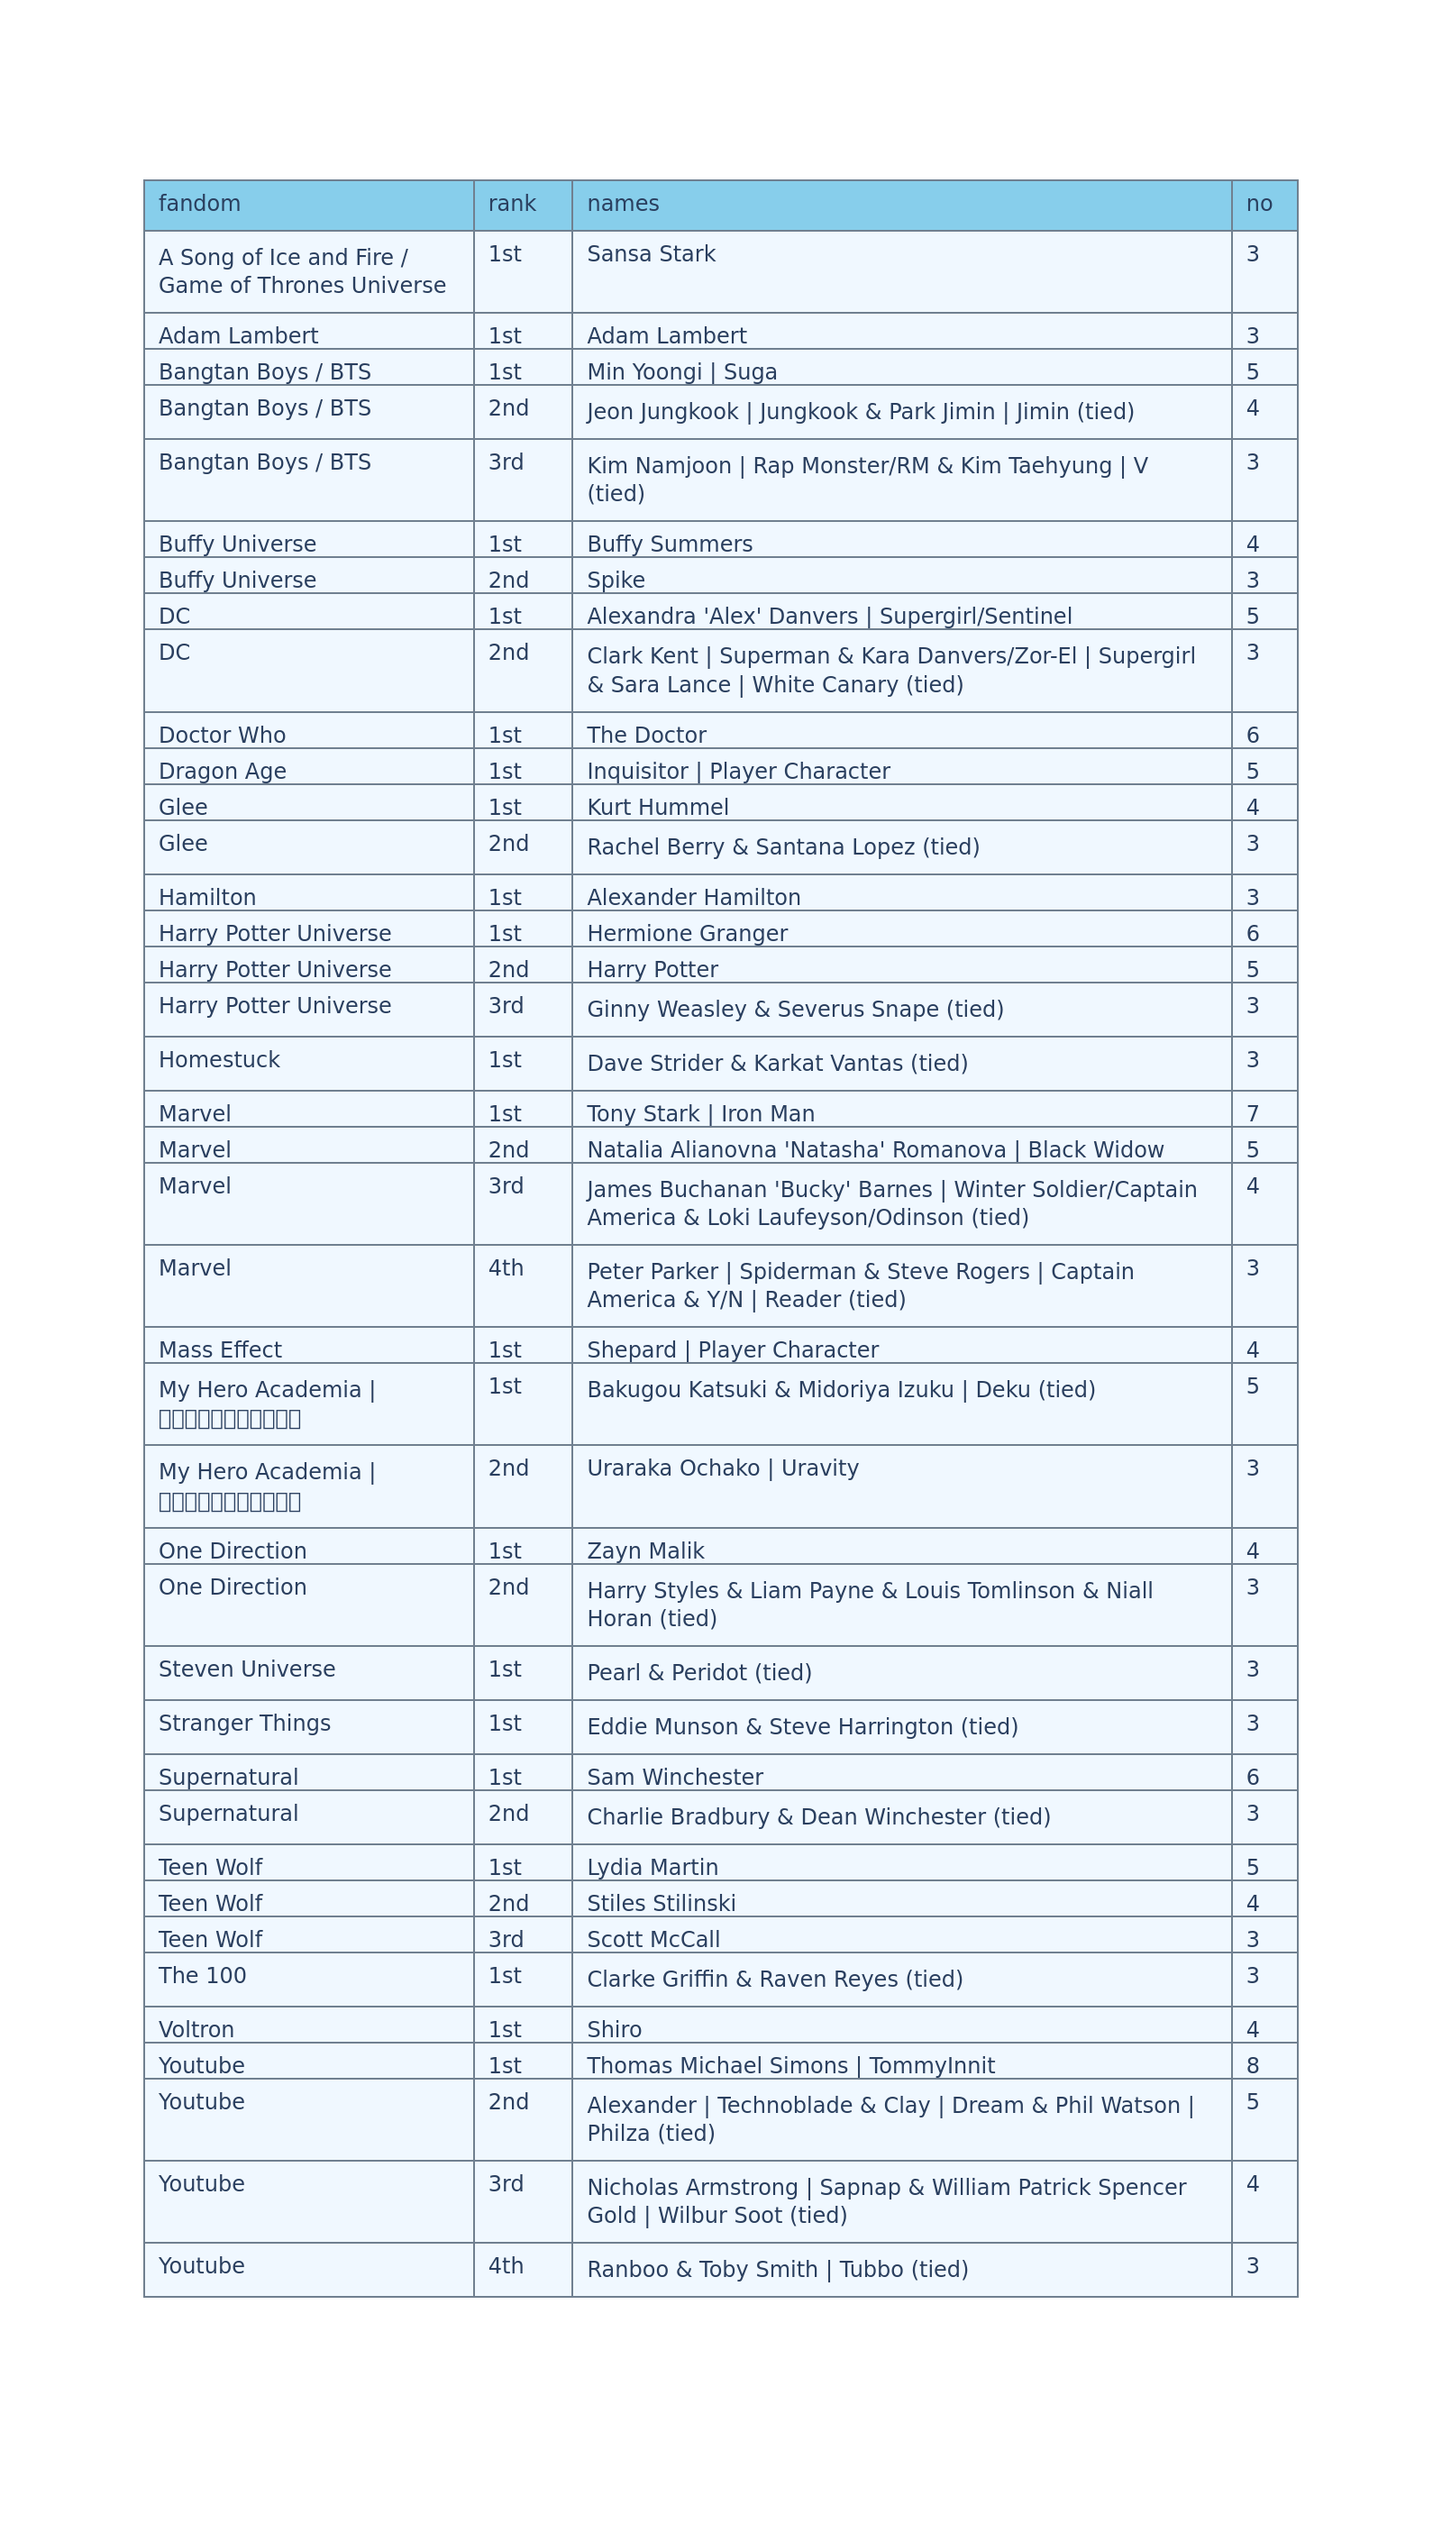
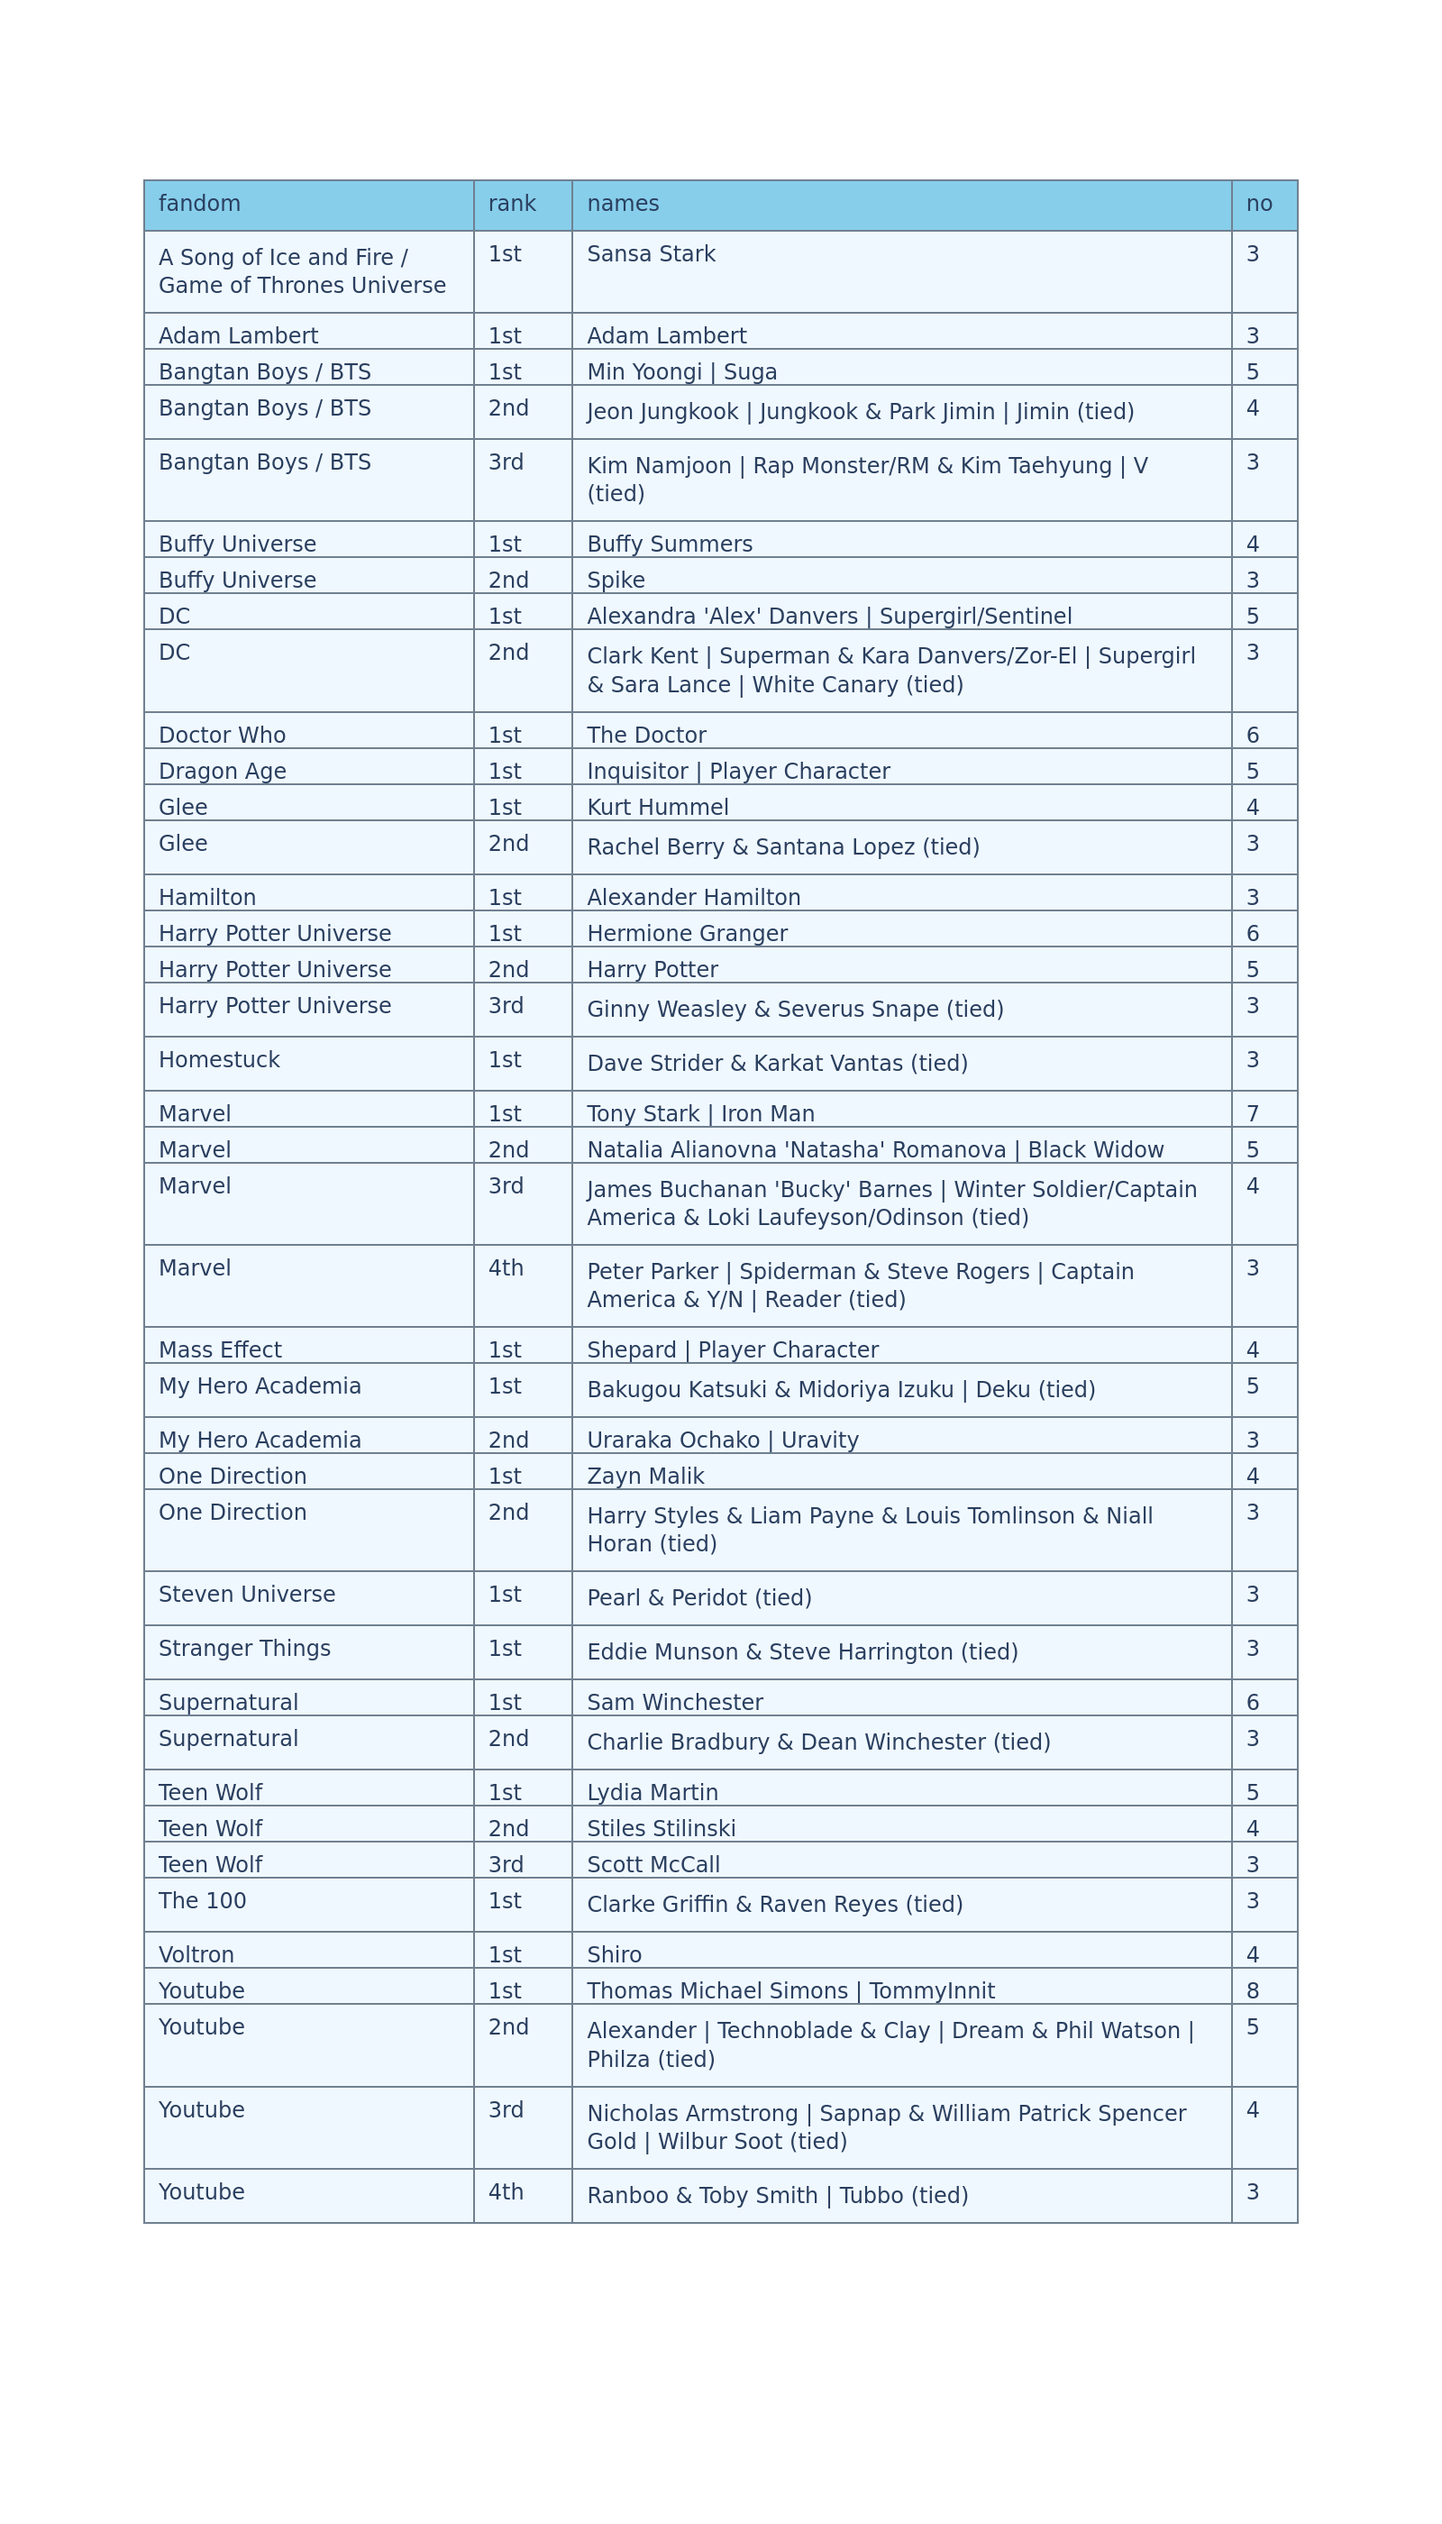
get rid of kana/kanji in MHA because kaleido can't render them yet

Changed region(s): [[0.0938, 0.5282, 0.875, 0.9011], [0.8438, 0.87, 0.875, 0.9011], [0.8438, 0.5593, 0.875, 0.5904]]

diff --git a/visualisation/vis_chars_and_ships.py b/visualisation/vis_chars_and_ships.py
@@ -156,7 +156,10 @@ def make_hottest_char_df(full_character_df):
     unique_fandoms = hottest_df["fandom"].unique()
     hottest_chars_by_ship_no_dict = {}
     for fandom in unique_fandoms: # for each fandom
-        hottest_chars_by_ship_no_dict[fandom] = {}
+        if "My Hero Academia" in fandom:
+            # couldn't figure out a way to render kana/kanji with kaleido, so getting rid of em
+            hottest_chars_by_ship_no_dict["My Hero Academia"] = {}
+        else: hottest_chars_by_ship_no_dict[fandom] = {}
         fandom_group = hottest_df.where( # making group of only this fandom's values
             cond=hottest_df["fandom"] == fandom
         ).sort_values(by="no_of_ships_they_in").dropna() # sorting by number of ships
@@ -165,7 +168,9 @@ def make_hottest_char_df(full_character_df):
                 fandom_group["no_of_ships_they_in"] == num
             ).dropna())
             if len(char_rank_list) > 0: # if there are characters with that num of ships
-                hottest_chars_by_ship_no_dict[fandom][num] = char_rank_list
+                if "My Hero Academia" in fandom:
+                    hottest_chars_by_ship_no_dict["My Hero Academia"][num] = char_rank_list
+                else: hottest_chars_by_ship_no_dict[fandom][num] = char_rank_list
 
     # making dataframe where every row is one number of ships (index)
     # and contains chars of that number by fandom (columns)
